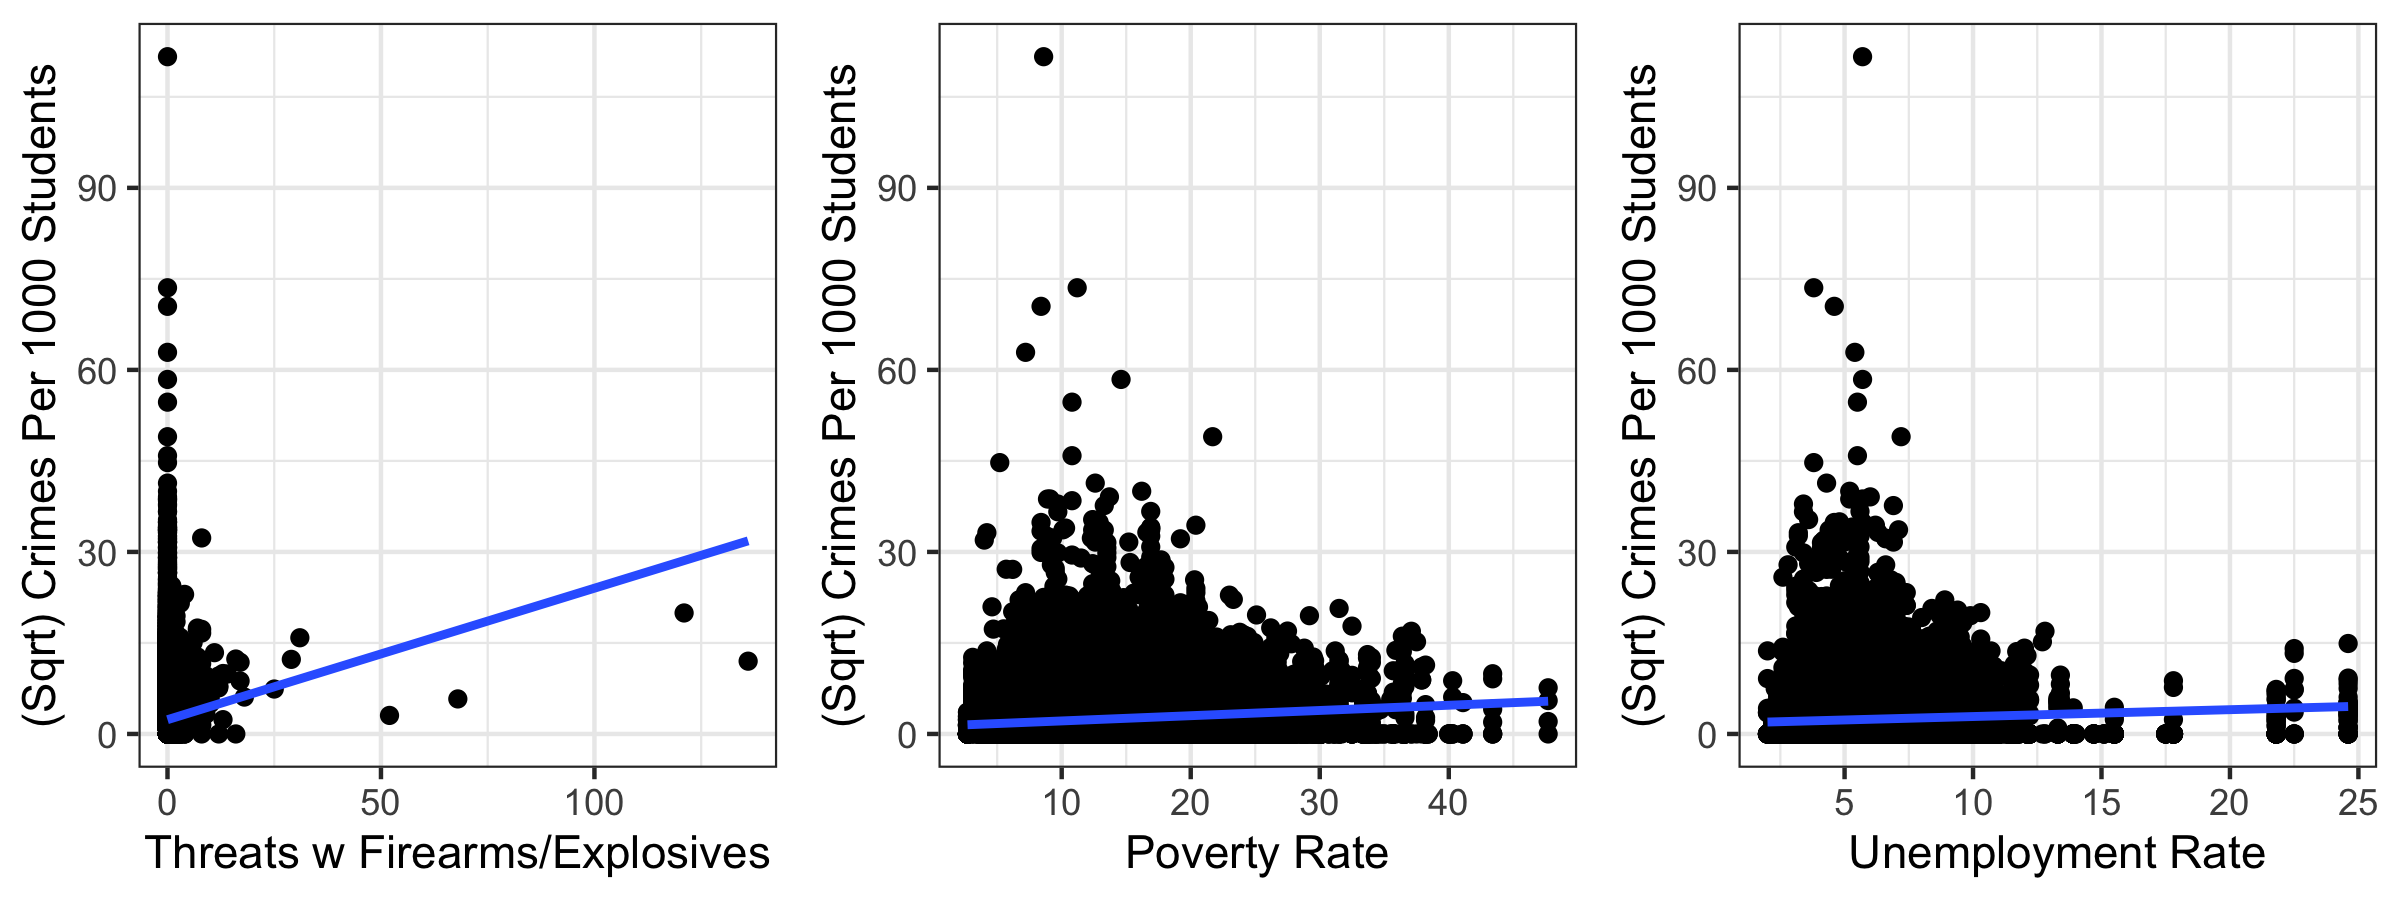
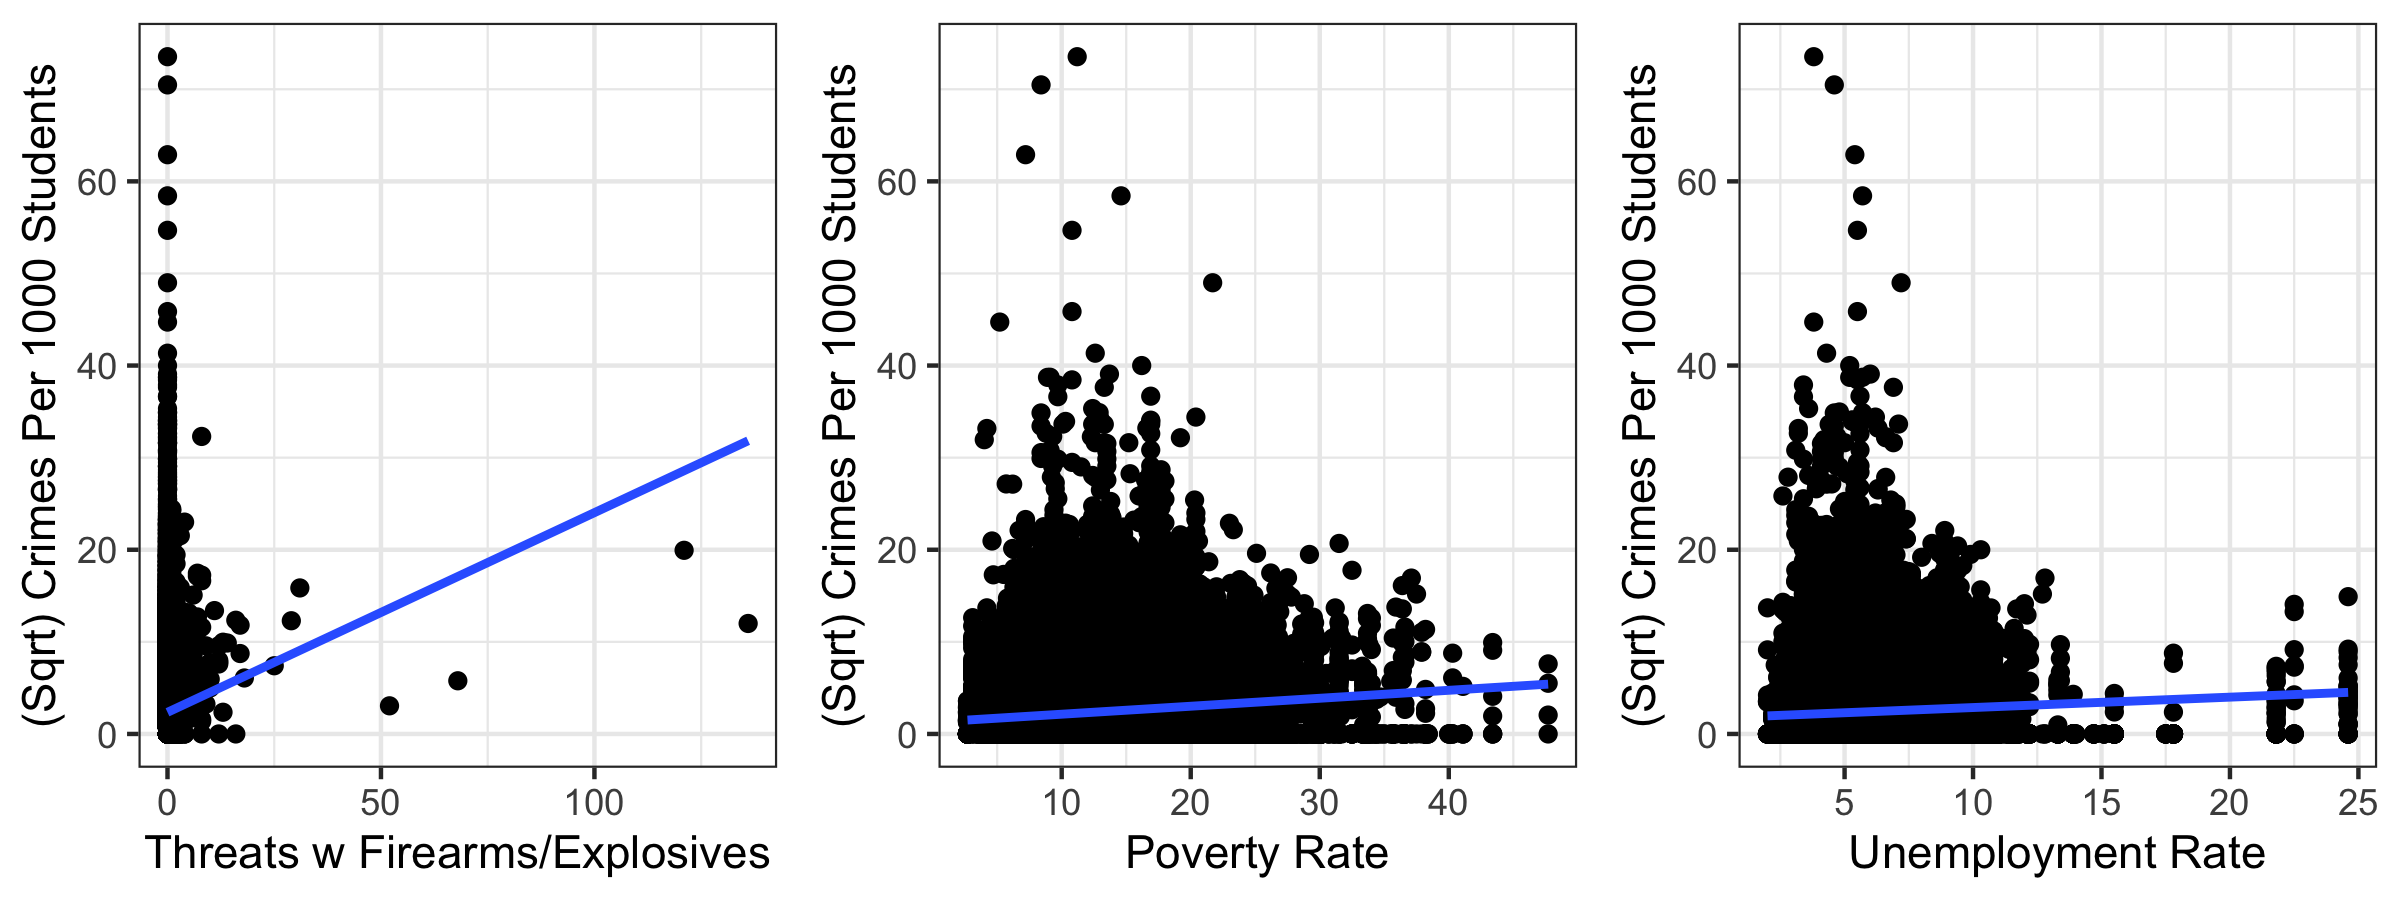
readme updated

diff --git a/README.md b/README.md
@@ -1,9 +1,9 @@
-# COVID-19 and County Health<br/>STAT  471 Final Project<br/>Seokyoon Chang, Jessica Mixon, Maayan Waldman<br/>May 2, 2021
+# School Crime and Safety<br/>STAT  471 Final Project<br/>Katherine Lee, Mark Rauschkolb<br/>December 19, 2021
 
-Despite the growing body of research focused on understanding the progression of COVID-19, there is still much to be learned about population-level health factors that make some populations more susceptible to COVID-19 spread, case severity, and mortality. Hence, for our final project, we decided to look into various measures of health across US counties and analyze which factors were most predictive of case fatality rate throughout 2020, the first year of the COVID-19 pandemic. While only analyzing 2020 COVID-19 data only inherently limits our results, we also note 2020 data may actually be most likely to reflect differences in healthcare quality across counties, as it was in the early months of the pandemic that many health systems faced unique issues of resource scarcity.
+Sandy Hook Elementary School and Santa Fe High School are synonymous with school shootings and violence. While national trends show that violence and victimization has declined from 1992 to 2017, there is a sentiment that the number of school shootings is increasing, mainly due to a steep increase in multiple-victim homicides (as opposed to single-victim homicides), revealing that the topic of school violence is still very relevant. On top of this, smaller instances of school crime are often forgotten even though they are still abundant and extremely detrimental to educational outcomes and children safety. For our final project, we decided to look into which variables were predictive of crimes and incidents of violence across US schools throughout 2015. While only analyzing 2015 school trends inherently limits the generalizability of our results, we believe the analysis draws high-level analyses about school crime trends.
 
-Our dataset pulled data from two sources: a New York Times time series dataset which includes cumulative counts of COVID-19 cases and deaths at the county level, and data from County Health Rankings & Roadmaps, a program focused on collecting county-level data on a variety of health determinants. For the latter data source, we pulled 2019 or older data from various datasets on their website, as many key variables we wanted to study are still missing for 2020 and we assume that most county-level health determinants stayed very similar from 2019 to 2020. Our explanatory variables span the four main categories of health factors that the program identifies: health behaviors (e.g., smoking, sexual activity), clinical care (e.g., flu vaccine rate), social and economic factors (e.g., unemployment rate), and physical environment (e.g., degree of air pollution). Our primary response variable of interest was deaths per cases, which we created by dividing county-level deaths by count-level cases.
+We draw from two different types of datasets: school-level data and county-level data. We used school-level data from the Urban Institute Education Portal to understand what school-specific features may be predictive of school crime. Using this portal, we were able to access data from: National Center for Education Statistics’ Common Core of Data (CCD), the Civil Rights Data Collection (CRDC), the US Department of Education’s EDFacts, and IPUMS’ National Historical Geographic Information System (NHGIS). Specifically, we pulled: school-level directory / geographic data, school finance data, teacher and staff data, discipline instances, and crime incidences. We also used county-level data to analyze school crime macro-trends. This county-level data came from US Economic Research Service, US Quarterly Census of Employment and Wages, and Census Bureau's Demographic Data. Specifically, we pulled: unemployment, education, poverty, wage, and demographic data. Our response variable was total crime per 1,000 students enrolled. We created this variable by adding a variety of crime incidents (rape, assault, robbery, etc.) and dividing it by the schools' respective student enrollment. 
 
-Before exploring our data or running any analyses, we split our data into a training dataset and a test dataset, with the test dataset reserved for assessing and comparing model performance. Then, we explored our data to check for normality assumptions necessary for linear regression and to assess correlations between variables and between variables and the response. In order to build an optimal predictive model, we then built six different cross-validated models: ordinary least squares, ridge regression, LASSO regression, elastic net regression, random forest, and boosting. Of the regression models, elastic net had the lowest test error and of the tree-based models, the boosted model had the lowest test error (as well as the lowest test error overall).
+Before running any analyses, we split our data into a training dataset and a testing dataset. Because of the heavily-skewed nature of our response variable, total crime incidents per 1,000 students, we square-root transformed the response, which resulted in more symmetric data. Then, on our train data, we explored our data to understand correlations between the features (through correlation plots) and between the features and the response. To understand the predictors of total crime and make a predictive model, we  built six different cross-validated models, with the end goal of selecting the best model with the best performance. Specifically, we built an OLS regression, ridge regression, Lasso regression, pruned regression decision tree, random forest, and boosting model. Regression based methods did not perform particularly well - OLS scored worse than the intercept only model, and both Ridge and Lasso, scored very similarly. Tree-based methods preformed significantly better. The pruned tree outpreformed all regerssion methods, and Random Forest and Boosting models then preformed significantly better. In the end, the optimal boosting model preformed as the best predictive model.
 
-Interestingly, we found that the boosted and elastic net regression both pointed to similar types of variables as the strongest predictors of deaths per cases. Specifically, our optimal boosted model revealed that variables related to residential segregation and unemployment emerged as the most significant predictors, revealing that structural economic and health access inequalities were more predictive of COVID-19 deaths per cases than other variables. We hope that this analysis can inform policies aimed at improving health outcome determinants, both in the context of COVID-19 and more generally going forward. 
+Throughout all models, we consistently saw similar variables surface as highly predictive of total crime. In general, we noticed that school specific variables influenced school crime much more than general demographic variables. Furthermore, key indicators such as threats and suspensions need to be taken seriously as they indicate higher levels of crime. Lastly, we were able to shine light on the importance of investing in teachers rather than psychologists, counselors and extra security guards.  
